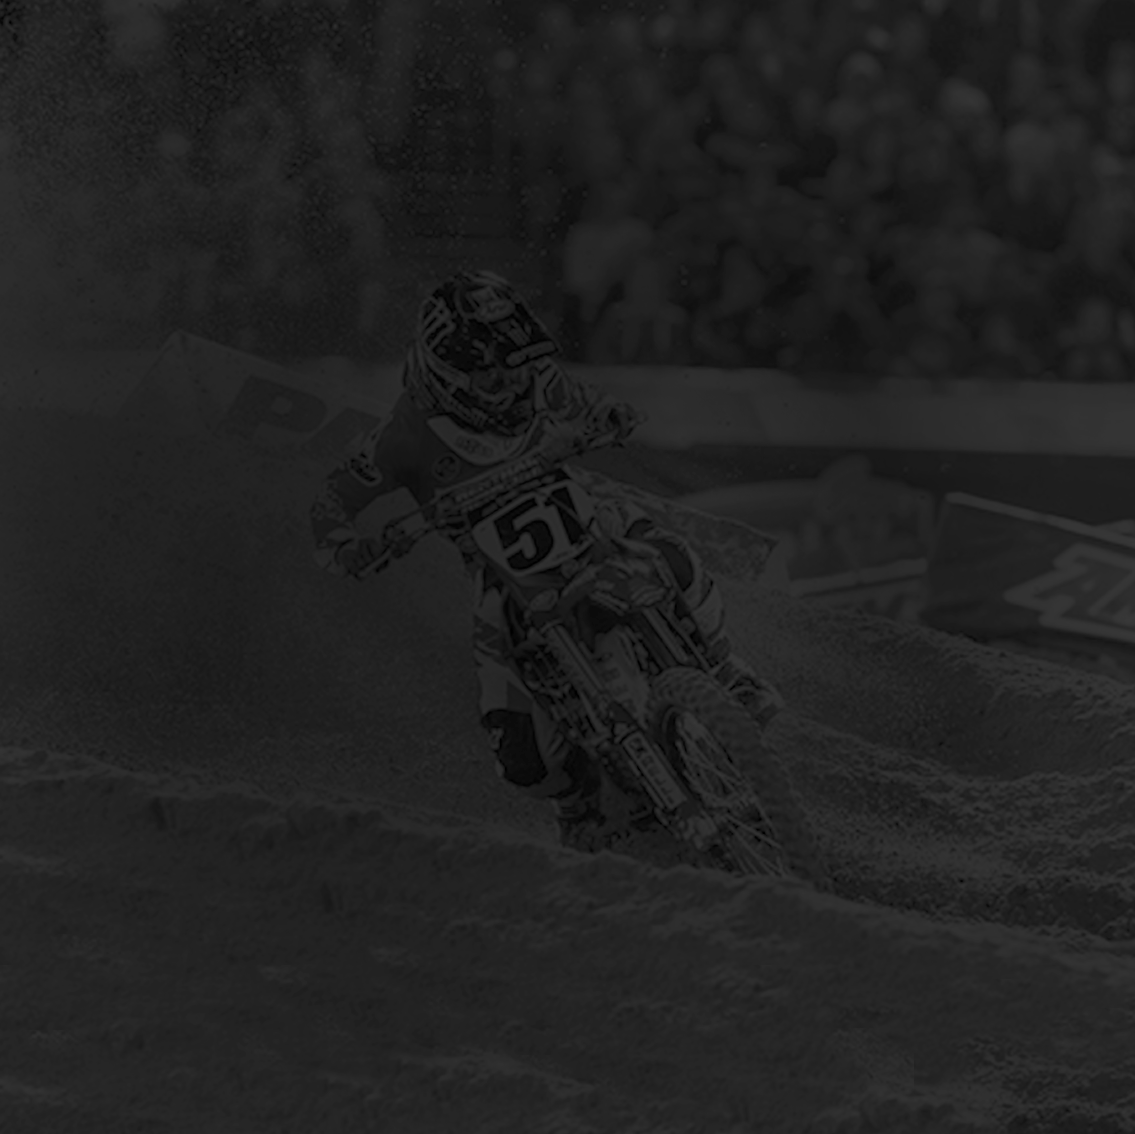
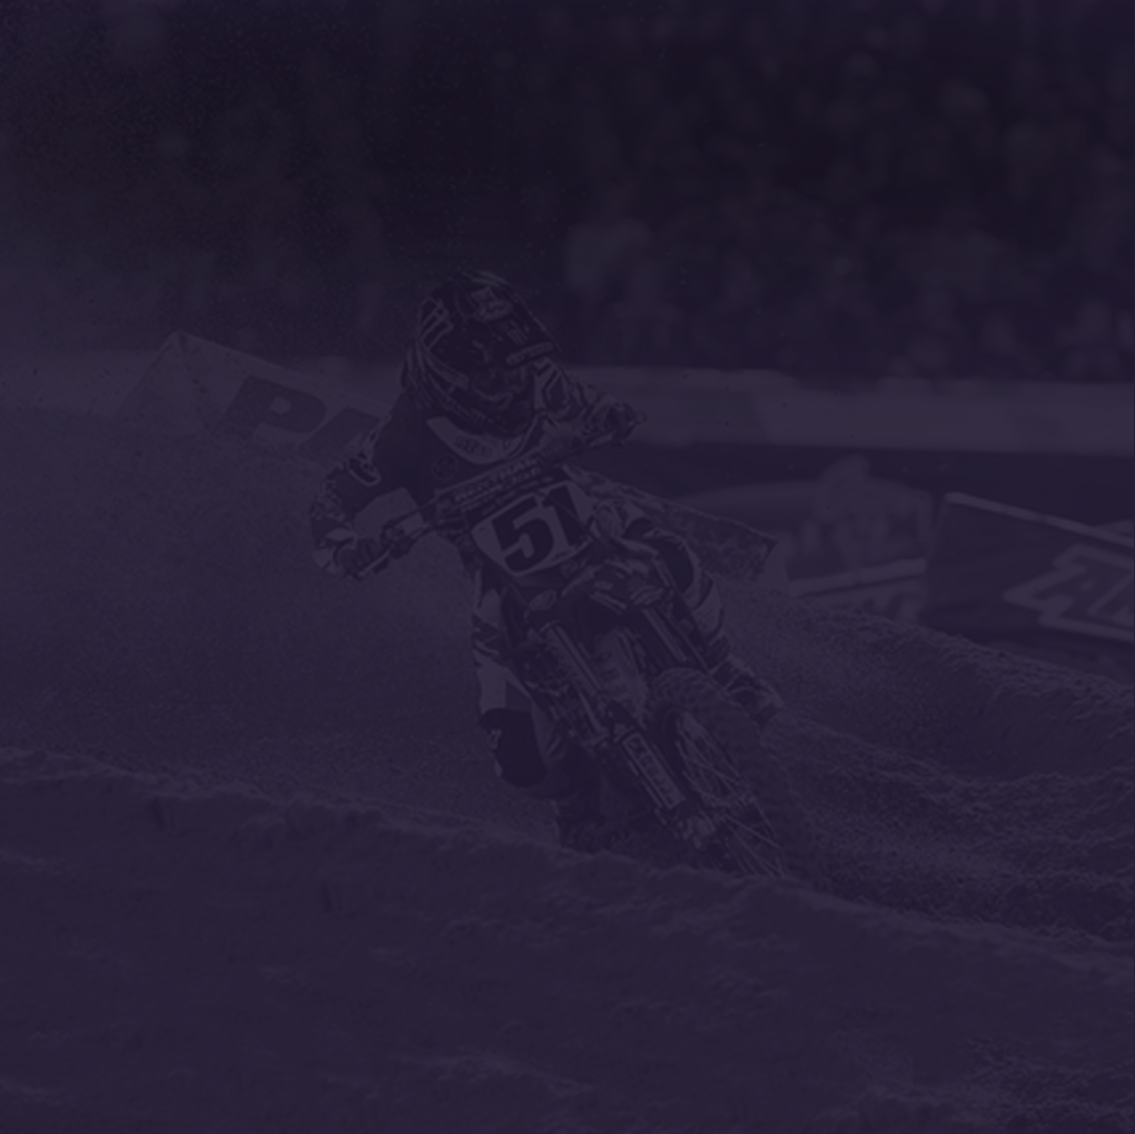
got series change working from root scope

diff --git a/client/lib/app.scss b/client/lib/app.scss
@@ -150,6 +150,106 @@ h1,h2,h3,h4,h5,h6,p,
 	background: #1f1f1f url('/images/app-bg.png') center top no-repeat;
 	background-size: cover;
 
+
+		&.mec {
+			background-image: url('/images/series/mec.png');
+			.series-bg{
+				background-color: rgba( $mec, .3);
+			}
+			.series-button{
+				background-color: rgba( $mec, 1);
+				border-color: darken( $mec, 1);
+			}
+			.series-color{
+				color: rgba( $mec, 1);
+			}
+
+		}
+		&.mx {
+			background-image: url('/images/series/mx.png');
+			.series-bg{
+				background-color: rgba( $mx, .3);
+			}
+			.series-button{
+				background-color: rgba( $mx, 1);
+				border-color: darken( $mx, 1);
+			}
+			.series-color{
+				color: rgba( $mx, 1);
+			}
+
+		}
+		&.superx {
+			background-image: url('/images/series/superx.png');
+			.series-bg{
+				background-color: rgba( $superx, .3);
+			}
+			.series-button{
+				background-color: rgba( $superx, 1);
+				border-color: darken( $superx, 1);
+			}
+			.series-color{
+				color: rgba( $superx, 1);
+			}
+
+		}
+		&.mxgp {
+			background-image: url('/images/series/mxgp.png');
+			.series-bg{
+				background-color: rgba( $mxgp, .3);
+			}
+			.series-button{
+				background-color: rgba( $mxgp, 1);
+				border-color: darken( $mxgp, 1);
+			}
+			.series-color{
+				color: rgba( $mxgp, 1);
+			}
+
+		}
+		&.motogp {
+			background-image: url('/images/series/motogp.png');
+			.series-bg{
+				background-color: rgba( $motogp, .3);
+			}
+			.series-button{
+				background-color: rgba( $motogp, 1);
+				border-color: darken( $motogp, 1);
+			}
+			.series-color{
+				color: rgba( $motogp, 1);
+			}
+
+		}
+		&.arenax {
+			background-image: url('/images/series/arenax.png');
+			.series-bg{
+				background-color: rgba( $arenax, .3);
+			}
+			.series-button{
+				background-color: rgba( $arenax, 1);
+				border-color: darken( $arenax, 1);
+			}
+			.series-color{
+				color: rgba( $arenax, 1);
+			}
+
+		}
+		&.nascar {
+			background-image: url('/images/series/nascar.png');
+			.series-bg{
+				background-color: rgba( $nascar, .3);
+			}
+			.series-button{
+				background-color: rgba( $nascar, 1);
+				border-color: darken( $nascar, 1);
+			}
+			.series-color{
+				color: rgba( $nascar, 1);
+			}
+
+		}
+
 	.platform-ios.platform-cordova:not(.fullscreen) &{
 		&.has-header{
 			top: 0;

diff --git a/client/dashboard/dashboardCtrl.ng.js b/client/dashboard/dashboardCtrl.ng.js
@@ -14,7 +14,7 @@
 		.controller('dashboardCtrl', dashboardCtrl);
 
 	/* @ngInject */
-	function dashboardCtrl ( $scope, appFactory ) {
+	function dashboardCtrl ( $scope, $rootScope, appFactory ) {
 
 		var vm = this; //jshint ignore:line
 		vm.controllerName = 'dashboardCtrl'; 
@@ -25,9 +25,10 @@
 
 		vm.slideHasChanged = function ( index ) {
 			// console.log( 'current slide: ' + index );
-			// vm.selectedSeries = vm.featured[index];
+			vm.selectedSeries = vm.featured[index];
 			// console.log( vm.featured[index] );
-			appFactory.setCurrentSeries( vm.featured[index] );
+			appFactory.setCurrentSeries( vm.selectedSeries );
+			// $rootScope.$emit( 'seriesChanged', vm.selectedSeries );
 		};
 		vm.changeSlide = function ( index ) {
 			console.log( 'change slide to : ' + index );
@@ -37,20 +38,15 @@
 		activate();
 
 		function activate () {
+			
 			vm.featured = $scope.$meteorCollection( Series.featured );
 			if (vm.featured.length > 0 ) {
 				vm.selectedSeries = vm.featured[0];
 				vm.selectedSeries._id = vm.featured[0]._id || 'not-found';
+				appFactory.setCurrentSeries( vm.selectedSeries );
+				// $rootScope.$emit( 'seriesChanged', vm.selectedSeries );
 			}
 
-			appFactory.getCurrentSeries().then(
-				function () {},
-				function () {},
-				function ( series ) {
-					console.log( series );
-					vm.selectedSeries = series;
-				}
-			);
 
 		}
 

diff --git a/client/dashboard/_dashboard.scss b/client/dashboard/_dashboard.scss
@@ -10,52 +10,10 @@
 	}
 	.slider-slide{
 		// border: 1px solid white;
-		background:  url('/images/series/mec.png') top center no-repeat;
-		background-size: cover;
+		// background:  url('/images/series/mec.png') top center no-repeat;
+		// background-size: cover;
 
 		// padding: 10px 10px 0;
-		&.mec {
-			background-image: url('/images/series/mec.png');
-			.box{
-				background-color: rgba( $mec, .3);
-			}
-		}
-		&.mx {
-			background-image: url('/images/series/mx.png');
-			.box{
-				background-color: rgba( $mx, .3);
-			}
-		}
-		&.superx {
-			background-image: url('/images/series/superx.png');
-			.box{
-				background-color: rgba( $superx, .3);
-			}
-		}
-		&.mxgp {
-			background-image: url('/images/series/mxgp.png');
-			.box{
-				background-color: rgba( $mxgp, .3);
-			}
-		}
-		&.motogp {
-			background-image: url('/images/series/motogp.png');
-			.box{
-				background-color: rgba( $motogp, .3);
-			}
-		}
-		&.arenax {
-			background-image: url('/images/series/arenax.png');
-			.box{
-				background-color: rgba( $arenax, .3);
-			}
-		}
-		&.nascar {
-			background-image: url('/images/series/nascar.png');
-			.box{
-				background-color: rgba( $nascar, .3);
-			}
-		}
 	}
 	.box{
 		height: 100%;

diff --git a/client/appFactory.js b/client/appFactory.js
@@ -16,37 +16,18 @@
 		.module('motodynastyApp')
 		.factory('appFactory', appFactory);
 
-	appFactory.$inject = ['$http', '$q'];
 
 	/* @ngInject */
-	function appFactory ( $http, $q ) {
+	function appFactory ( $rootScope ) {
 
-		var _currentSeries,
-				_seriesPromise = $q.defer();
 
 		var obj = {};
-		
 		obj.factoryName = 'motodynastyApp.appFactory';
+		obj.currentSeries = '';
+		
 		obj.setCurrentSeries = function ( series ){
-			_currentSeries = series;
-			_seriesPromise.notify( _currentSeries );
-		};
-		obj.getCurrentSeries = function () {
-			return _seriesPromise.promise;
-		};
-
-		obj.loadSomething = function () {
-			var q = $q.defer();
-			$http.get('http://path/to/service')
-				.success( function( data ){
-					q.resolve( data );
-				})
-				.error( function( error ){
-					console.warn( error );
-					q.reject( error );
-				});
-			
-			return q.promise;
+			obj.currentSeries = series;
+			$rootScope.$emit( 'seriesChanged', series );
 		};
 
 		return obj;

diff --git a/client/appCtrl.js b/client/appCtrl.js
@@ -13,10 +13,8 @@
 		.module('motodynastyApp')
 		.controller('appCtrl', appCtrl);
 
-	appCtrl.$inject = ['$rootScope'];
-
 	/* @ngInject */
-	function appCtrl ($rootScope) {
+	function appCtrl ($rootScope, appFactory) {
 
 		//jshint ignore:line
 		var vm = this; 
@@ -29,6 +27,8 @@
 		function activate () {
 			console.log( 'activated controller: ' + vm.controllerName );
 			$rootScope.$on('$stateChangeStart', onStateChange);
+			$rootScope.$on('seriesChanged', onSeriesChange);
+
 		}
 
 		function onStateChange (event, toState, toParams, fromState, fromParams){ 
@@ -40,6 +40,11 @@
 		    // transitionTo() promise will be rejected with 
 		    // a 'transition prevented' error
 		};
+
+
+		function onSeriesChange ( event, series ) {
+			console.log( series );
+		}
 
 
 
